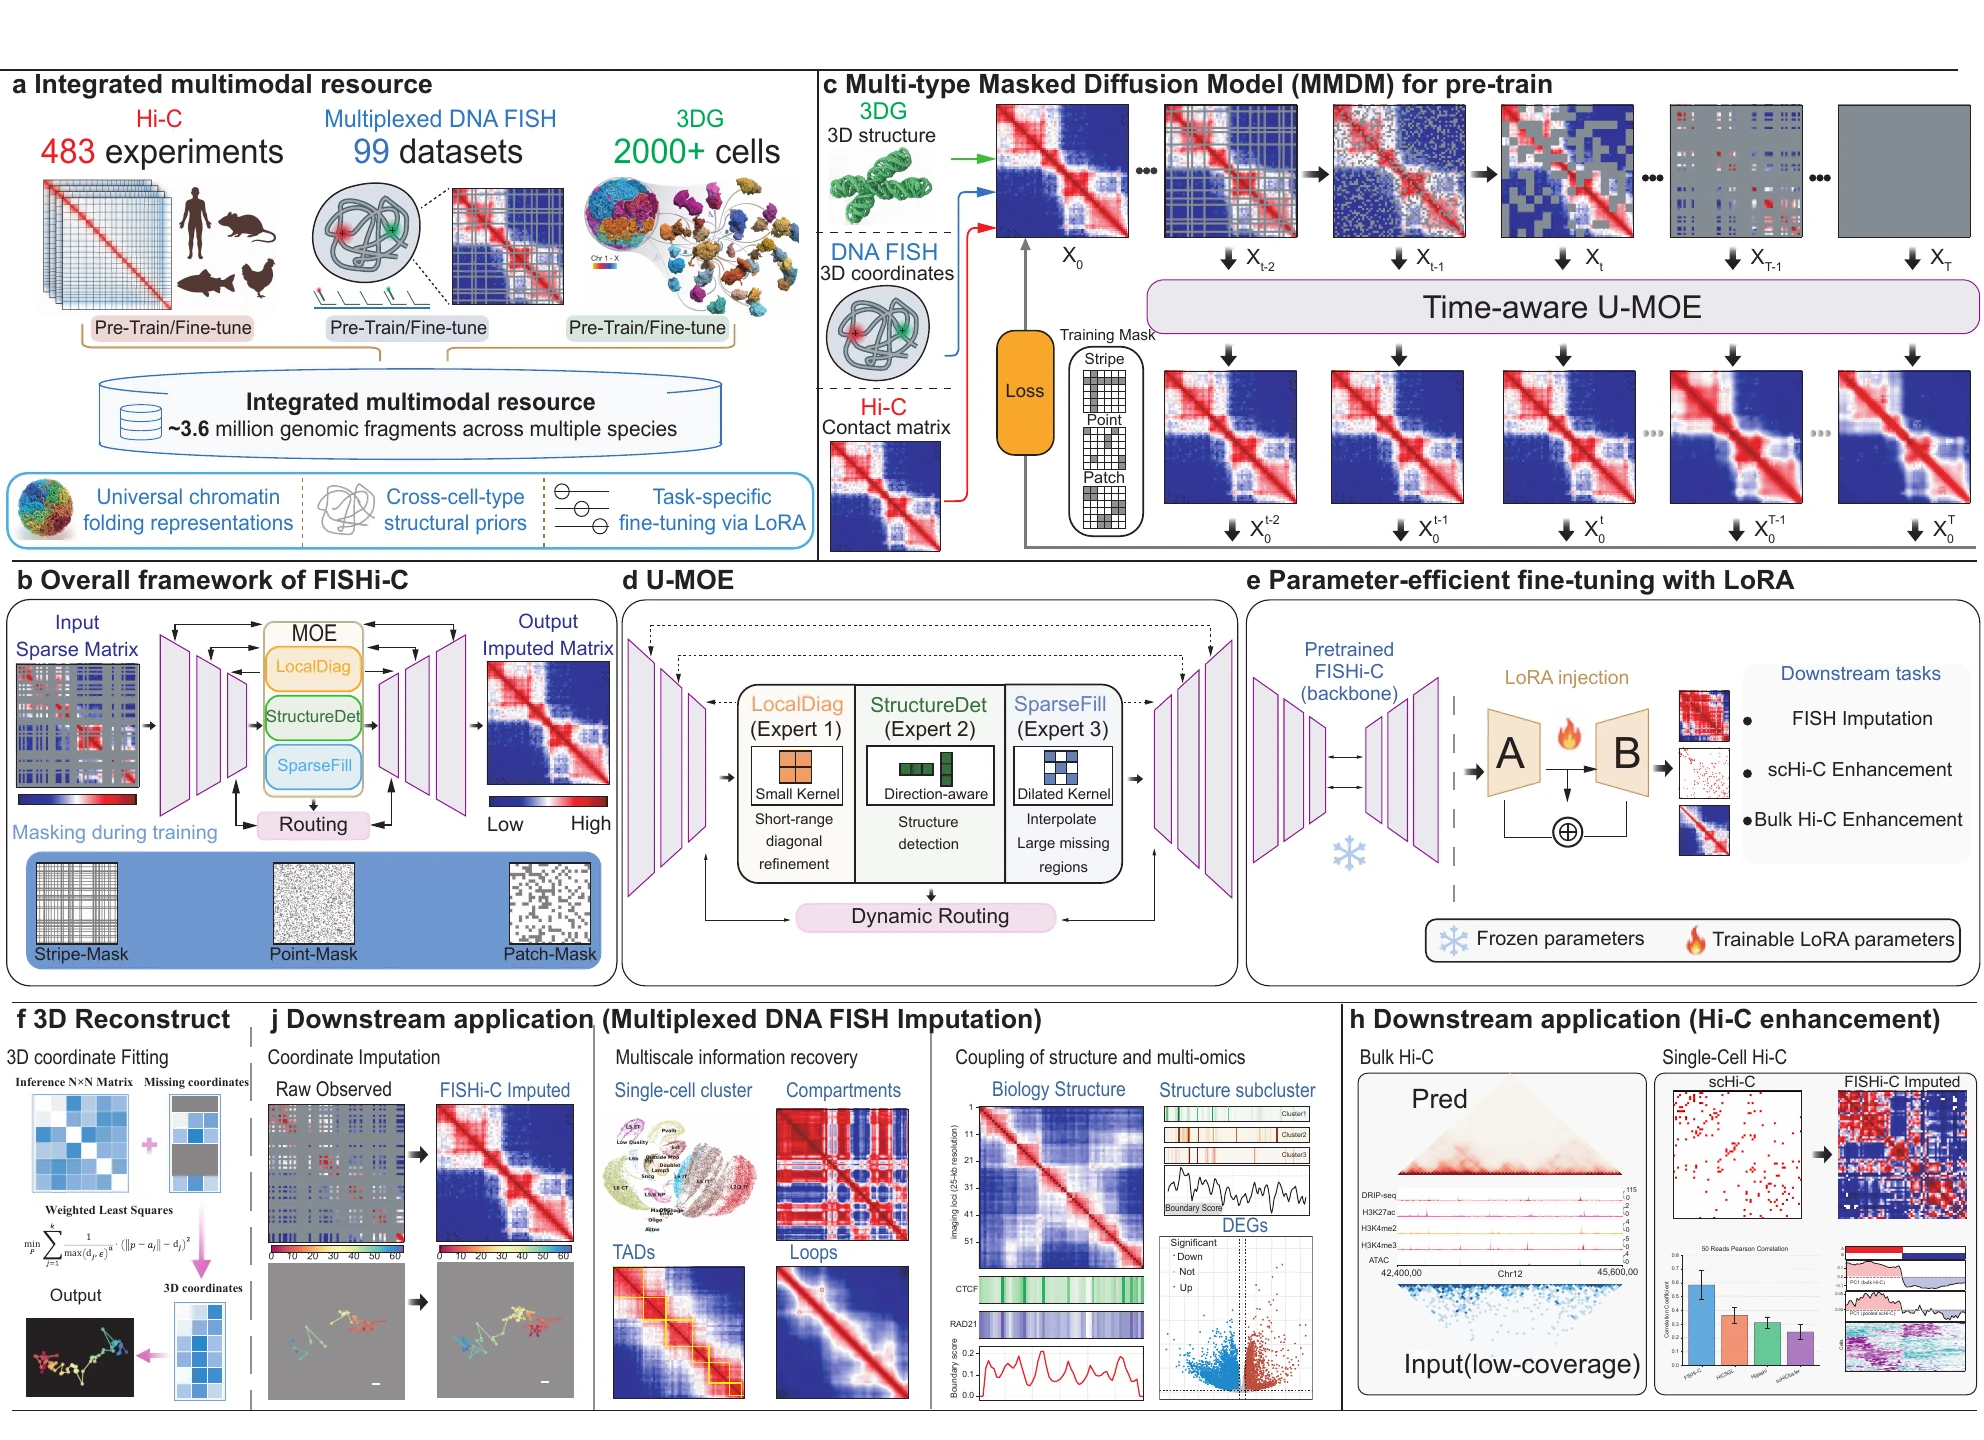
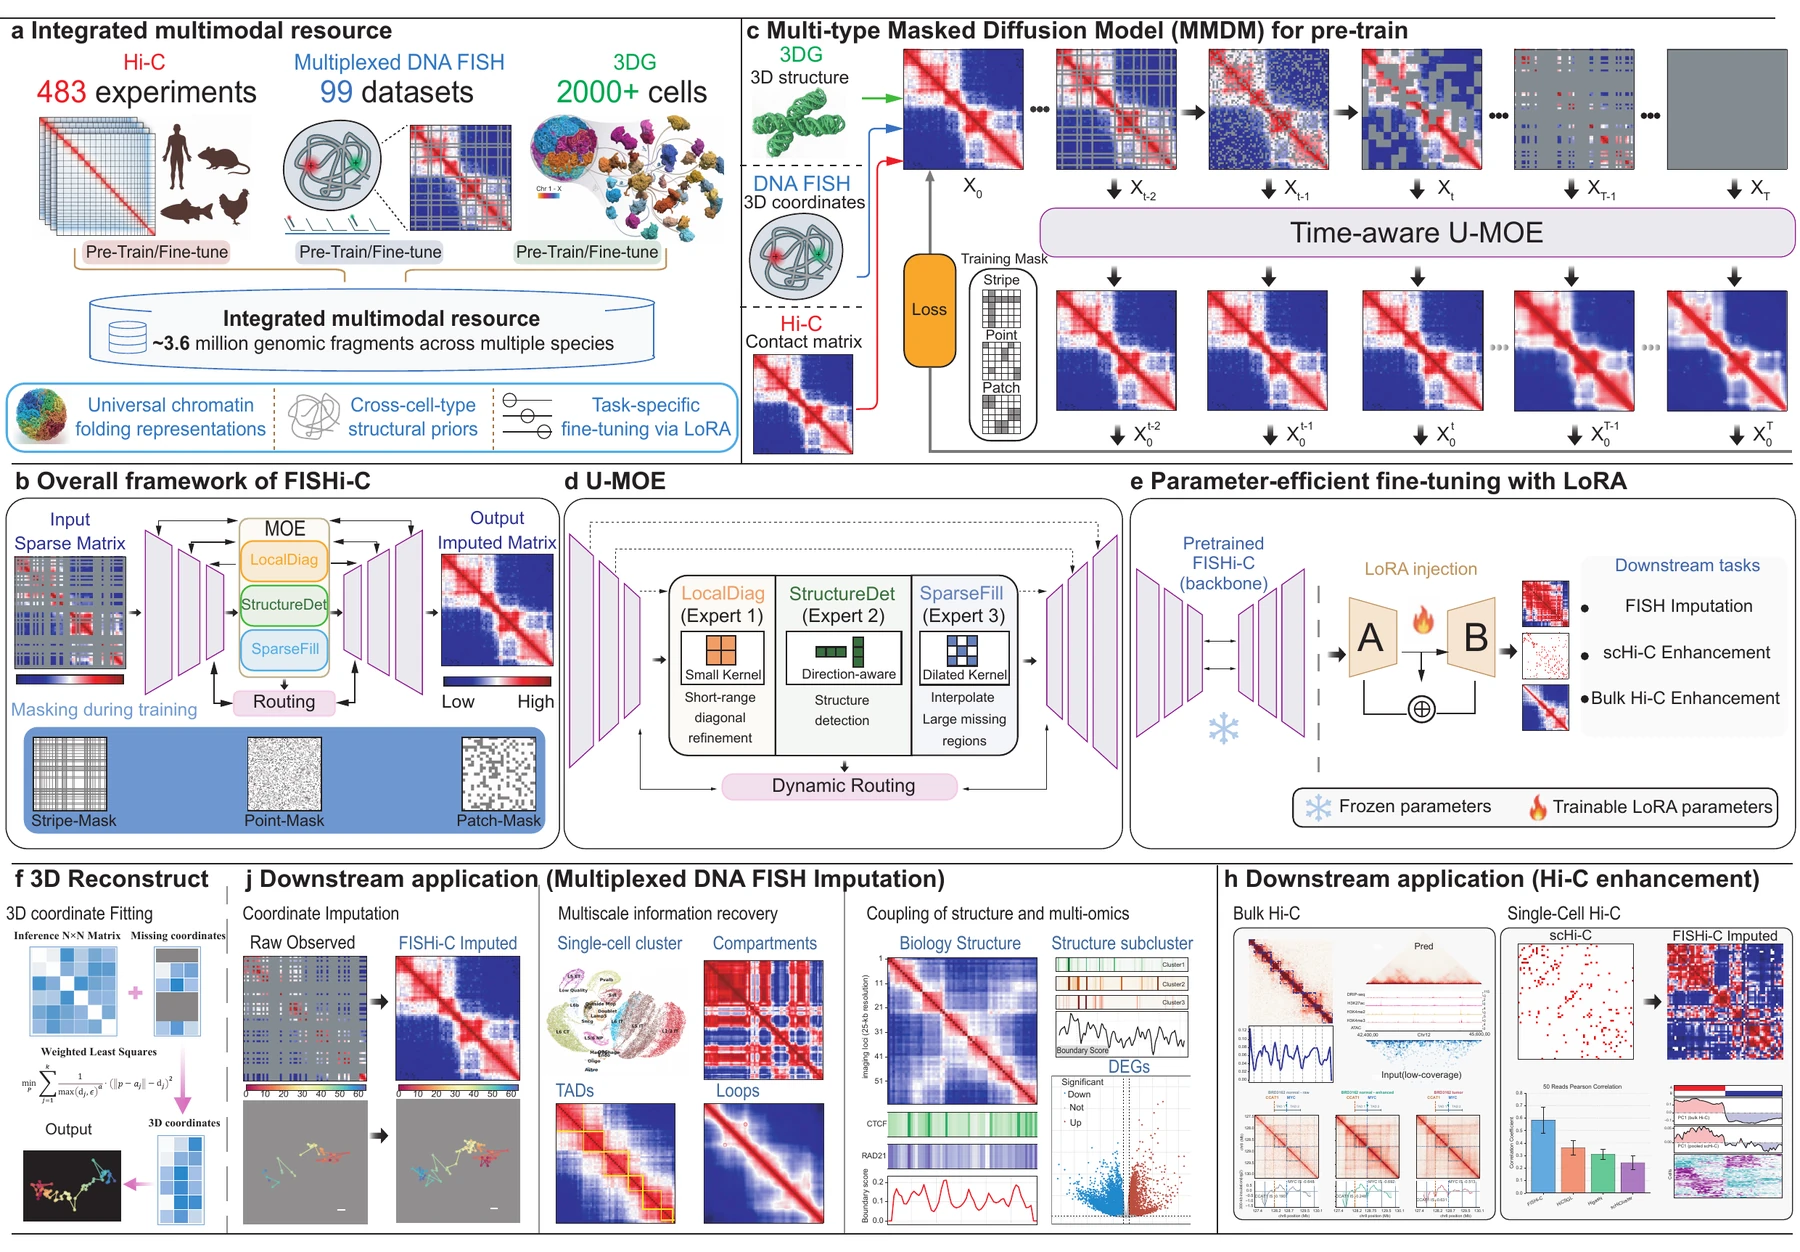
Update Figure1

diff --git a/README.md b/README.md
@@ -8,7 +8,7 @@
 
 ## Overview
 
-![Overview of the FISHi-C framework](assets/Figure1.jpg)
+![Overview of the FISHi-C framework](assets/Figure1.webp)
 
 ## Contents
 
